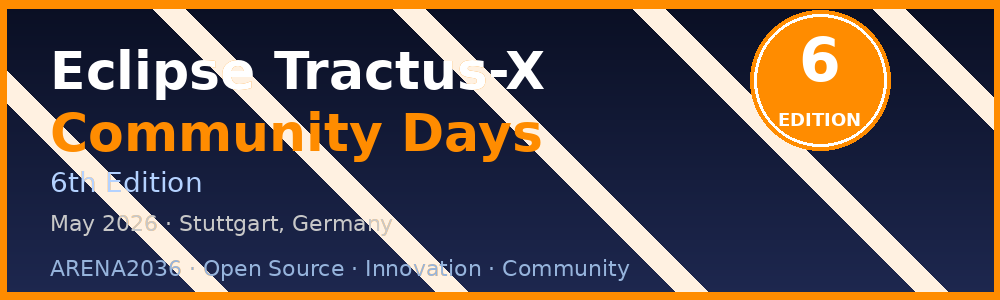
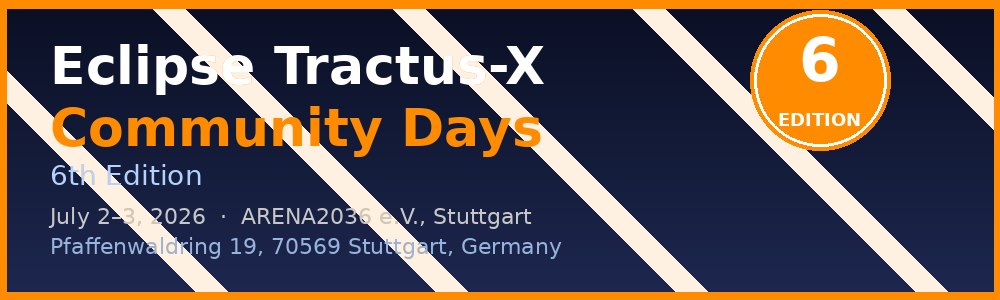
fix: Update Sixth Community Days to confirmed date (July 2-3, 2026) and full location
Agent-Logs-Url: https://github.com/stephanbcbauer/eclipse-tractusx.github.io/sessions/901170fc-d74f-4dd9-aac7-9c1cd118022b

diff --git a/data/upcomingEvents.js b/data/upcomingEvents.js
@@ -55,14 +55,14 @@ export const upcomingEvents = [
     image: '/img/events/hackathon-spain.jpeg'
   },
   {
-    id: 'community-days-05-2026',
+    id: 'community-days-07-2026',
     title: 'Sixth Eclipse Tractus-X Community Days',
-    date: '2026-05-01',
-    endDate: '2026-05-02',
-    location: 'Stuttgart, Germany',
-    description: 'Join us for the Sixth Eclipse Tractus-X Community Days at ARENA2036 in Stuttgart! Two days of collaboration, workshops, keynotes, and networking with the global Tractus-X community. Connect with contributors from Manufacturing-X initiatives, participate in hands-on challenges, and help shape the future of open-source data spaces.',
+    date: '2026-07-02',
+    endDate: '2026-07-03',
+    location: 'ARENA2036 e.V., Stuttgart, Germany',
+    description: 'Join us for the Sixth Eclipse Tractus-X Community Days at ARENA2036 e.V. (Pfaffenwaldring 19, 70569 Stuttgart)! Two days of collaboration, workshops, keynotes, and networking with the global Tractus-X community. Connect with contributors from Manufacturing-X initiatives, participate in hands-on challenges, and help shape the future of open-source data spaces.',
     registrationUrl: 'https://arena2036.de/reader/sixth-eclipse-tractus-x-community-days/',
-    blogSlug: 'community-days-05-2026',
+    blogSlug: 'community-days-07-2026',
     eventType: 'community-days',
     featured: true,
     image: '/img/tractus-x-community-days-26-05.png'

diff --git a/data/meetings.js b/data/meetings.js
@@ -360,14 +360,14 @@ export const meetings = [
     contact: 'stephan.bauer@catena-x.net',
     sessionLink: 'https://arena2036.de/reader/sixth-eclipse-tractus-x-community-days/',
     additionalLinks: [
-      { title: 'News Blog & Registration', url: '/blog/community-days-05-2026' },
+      { title: 'News Blog & Registration', url: '/blog/community-days-07-2026' },
       { title: 'ARENA2036 Event Page', url: 'https://arena2036.de/reader/sixth-eclipse-tractus-x-community-days/' },
       { title: 'Tractus-X Community Matrix Chat', url: 'https://matrix.to/#/#tractusx-dev:matrix.eclipse.org' },
       { title: 'Tractus-X Mailing List', url: 'https://accounts.eclipse.org/mailing-list/tractusx-dev' },
     ],
     recurrence: {
       frequency: 'once',
-      startDate: '2026-05-01',
+      startDate: '2026-07-02',
       startTime: '09:00',
       endTime: '17:00',
     },
